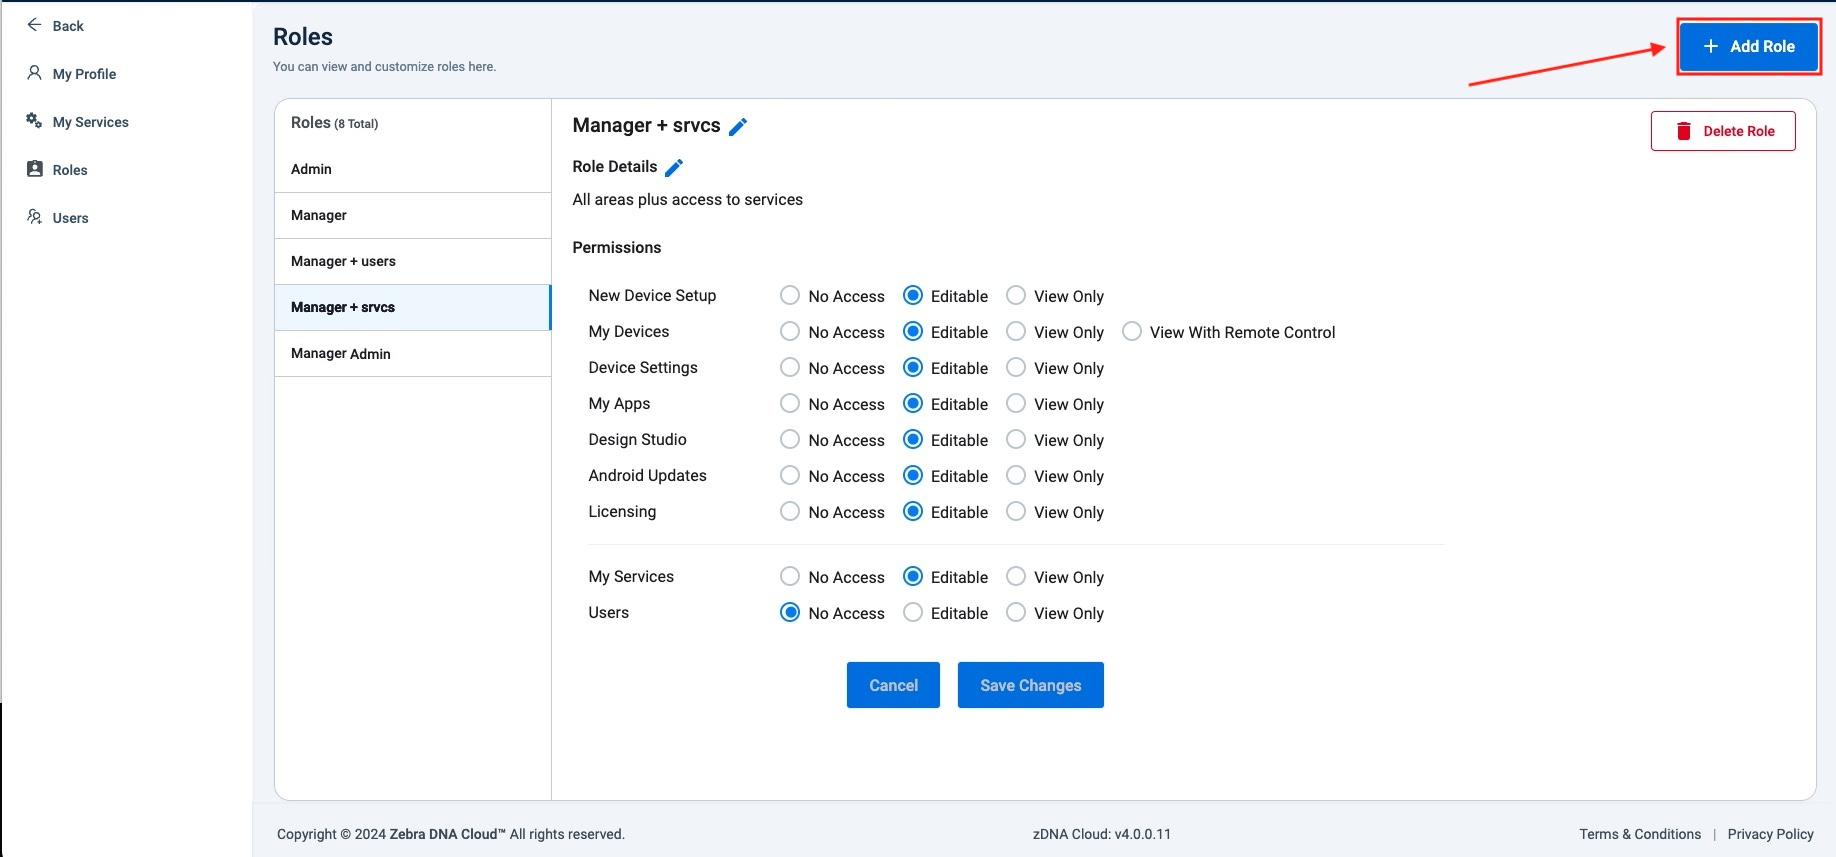
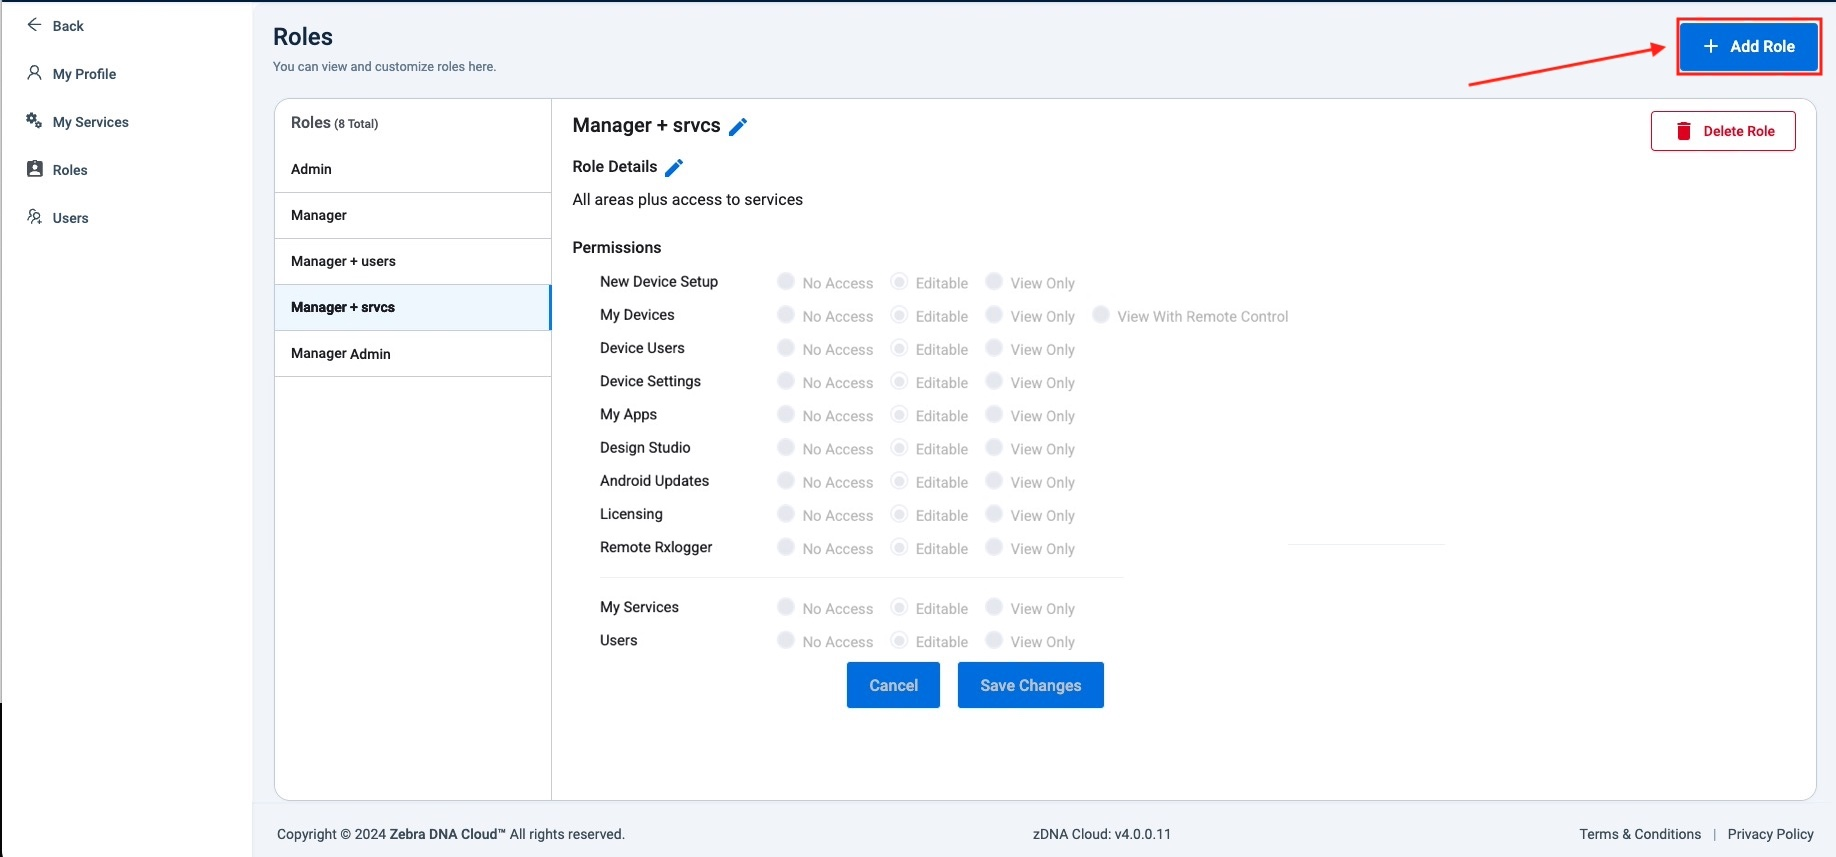
[TUT-108811] ZDNA 5.4 updates per eng; tweex galore

diff --git a/zebradna/5-4/usage/index.html b/zebradna/5-4/usage/index.html
@@ -505,14 +505,15 @@ PLAY STORE
 <h3 id="exportmydevicesdata" class="anchor"><a class="heading-anchor" href="#exportmydevicesdata"><span></span></a>Export My Devices Data</h3>
 
 <ol>
-<li><p><strong>On My Devices page, click the "Export" button</strong> to begin: 
+<li><p><strong>On My Devices page, click the "Export" button</strong> to begin.<br>
+Status changes from "In-Progress" to "Completed" once data collection is complete.<br>
+<strong>Click "Download"</strong> on the desired job to continue. 
 <img alt="image" style="height:350px" src="53_export_dialog.jpg">
 <em>The current export job status is displayed along with the two most recently completed export jobs (if applicable)</em>.<br> 
 <em>Click image to enlarge; ESC to exit.</em>
 <br></p></li>
 
-<li><p>Status changes from "In-Progress" to "Completed" once data collection is complete.<br> 
-<strong>Click "Download" to select a location for the completed data file</strong>: 
+<li><p>Navigate to the desired file location and <strong>click "Save" button</strong> (not shown).<br> 
 <img alt="image" style="height:150px" src="53_export_saveAs.jpg">
 <em>Click image to enlarge; ESC to exit.</em>
 <br></p></li>
@@ -1298,16 +1299,99 @@ Android Updates
 
 <h2 id="deviceusers" class="anchor"><a class="heading-anchor" href="#deviceusers"><span></span></a>Device Users</h2>
 
-<p><strong>The Device Users section allows admins to manage the identities, device-access method(s), usage activities and other information relevant to users of <a href="/identityguardian">Identity Guardian</a></strong>, Zebra's biometric device authentication solution.</p>
+<p><strong>The Device Users section allows admins to view the identities, device-access method(s), usage activities and other information relevant to users of <a href="/identityguardian">Identity Guardian</a></strong>, Zebra's biometric device authentication solution. Device users that enroll in Identity Guardian are automatically populated into the Device Users section, giving ZDNA administrators the ability to perform the actions listed below.</p>
 
-<p><img alt="image" style="height:150px" src="54_device_users.jpg">
+<p><img alt="image" style="height:350px" src="54_device_users.jpg">
 <em>Click image to enlarge; ESC to exit</em>.</p>
 
-<p><img alt="image" style="height:150px" src="54_deviceUser_columns.jpg">
+<ul>
+<li><strong>Delete -</strong> Removes user(s) from the system and blocks their access to device usage. </li>
+
+<li><strong>Expire -</strong> Blocks user access to devices; retains user information.   </li>
+
+<li><strong>Export -</strong> Gathers and writes all Identity Guardian user data to a <code>.csv</code> file on the host computer (see below).</li>
+</ul>
+
+<p><img alt="image" style="height:350px" src="54_deviceUser_columns.jpg">
 <em>Click image to enlarge; ESC to exit</em>.</p>
 
-<p><img alt="image" style="height:150px" src="54_export_device_users.jpg">
-<em>Click image to enlarge; ESC to exit</em>.</p>
+<p>User data available for display is listed below, with <strong>defaults shown in bold</strong>. Click the "Show Columns" button to select the desired data to display. </p>
+
+<ul>
+<li><strong>Employee ID</strong></li>
+
+<li><strong>Security Type(s)</strong></li>
+
+<li><strong>User Type</strong></li>
+
+<li>Valid Through</li>
+
+<li>Created On</li>
+
+<li>Created By Device</li>
+
+<li>Created By S/N1</li>
+
+<li><strong>Last Log-In</strong></li>
+
+<li>Last Log-In Device</li>
+
+<li><strong>Last Log-In S/N</strong></li>
+
+<li>Enrollment ID</li>
+
+<li><strong>Actions</strong></li>
+</ul>
+
+<h3 id="exportuserdata" class="anchor"><a class="heading-anchor" href="#exportuserdata"><span></span></a>Export User Data</h3>
+
+<ol>
+<li><p><strong>On Device Users page, click the "Export" button</strong> to begin.<br>
+Status changes from "In-Progress" to "Completed" once data collection for the current job is complete.<br>
+<strong>Click "Download"</strong> on the desired job to continue. 
+<img alt="image" style="height:350px" src="54_export_device_users.jpg">
+<em>The current export job status is displayed along with the two most recently completed export jobs (if applicable)</em>.<br> 
+<em>Click image to enlarge; ESC to exit.</em>
+<br></p></li>
+
+<li><p>Navigate to the desired file location and <strong>click "Save" button</strong> (not shown).<br> <br>
+<img alt="image" style="height:150px" src="54_export_saveAs.jpg">
+<em>Click image to enlarge; ESC to exit</em>.
+<br></p></li>
+</ol>
+
+<p><i class="fa fa-check-circle" style="color:#27AE60;"></i> Data for <strong>all device users</strong> is saved to a <code>.csv</code> file in the selected location for further processing and/or backup. Exports are subject to the behaviors listed below.</p>
+
+<h4 id="exportnotes-1" class="anchor"><a class="heading-anchor" href="#exportnotes-1"><span></span></a>Export Notes</h4>
+
+<ul>
+<li>Export function collects device information for all users on the Device Users page.</li>
+
+<li><strong>All user information is exported</strong> regardless of user selection(s), shown/hidden columns, filters, etc.</li>
+
+<li>The download button for each dataset is activated after all device user data is collected.  </li>
+
+<li><strong>The DNA Cloud system retains a maximum of three export-job files</strong>; older files are deleted automatically. </li>
+
+<li><strong>Data is saved as a</strong> <code>.csv</code> <strong>file</strong> to the selected location on the host computer.   </li>
+
+<li><strong>Export jobs are user-specific</strong>; each user sees only their own list of datasets.   </li>
+
+<li><strong>Export button is disabled</strong> if no device user data is present. </li>
+
+<li><strong>File generation status messages</strong>: 
+
+
+<ul>
+<li><strong>In-Progress</strong>: The export file is being generated.</li>
+
+<li><strong>Failed</strong>: An error occurred while generating the export file. Try again. </li>
+
+<li><strong>Completed</strong>: The export file was generated successfully and is available for download. </li></ul>
+</li>
+
+<li>Attempting to initiate an export while another is "In-Progress" results in an error.   </li>
+</ul>
 
 <hr>
 
@@ -1497,6 +1581,8 @@ When finished uploading files <strong>click Next</strong> to proceed: <br>
 <em>Click image to enlarge; ESC to exit.</em>
 <br></p>
 
+<hr>
+
 <h3 id="appnotes" class="anchor"><a class="heading-anchor" href="#appnotes"><span></span></a>App Notes</h3>
 
 <ul>
@@ -1522,6 +1608,16 @@ When finished uploading files <strong>click Next</strong> to proceed: <br>
 
 <li><strong>A changed Google Drive is indicated by a banner</strong> similar to the one shown below (DNA Cloud 2.4 and later). <img alt="image" style="height:50px" src="24_g_drive_banner.png"></li>
 </ul>
+
+<hr>
+
+<h3 id="upgradeanapp" class="anchor"><a class="heading-anchor" href="#upgradeanapp"><span></span></a>Upgrade an App</h3>
+
+<p>To upgrade an app that has already been added to a "My Collection" repository, refer to <a href="#addappstocollection">Add Apps to Collection</a> and click the "Add Version" button to create a Setup Profile. Then deploy as usual.  </p>
+
+<blockquote>
+  <p><i class="fa fa-exclamation-triangle" style="color:#FFA500;"></i> DNA Cloud cannot "downgrade" an app. To install an older version of a previously installed app, <a href="#createappsetupprofile">create an App Setup Profile</a> that includes the desired version and deploy it. </p>
+</blockquote>
 
 <hr>
 

diff --git a/zebradna/5-4/about/index.html b/zebradna/5-4/about/index.html
@@ -272,12 +272,23 @@
 <h2 id="newinzdna54" class="anchor"><a class="heading-anchor" href="#newinzdna54"><span></span></a>New in ZDNA 5.4</h2>
 
 <ul>
-<li><strong>Adds the ability to <a href="../usage/#devicesusers">export Identity Guardian User data</a></strong>: 
+<li>Adds support for the following devices <strong>running Android 14</strong><i>†</i>: 
+
+
+<ul>
+<li><strong>KC50</strong></li>
+
+<li><strong>TC58e</strong></li>
+
+<li><strong>WT6400</strong></li></ul>
+</li>
+
+<li><strong>Adds the ability to <a href="../usage/#deviceusers">export Identity Guardian user data</a></strong>: 
 <img alt="image" style="height:250px" src="54_export_device_users.jpg">
 <em>Click image to enlarge; ESC to exit</em>.</li>
 
 <li>Remote RxLogger now integrates with ZDNA User Roles 
-<img alt="image" style="height:250px" src="54_rxlogger_roles.jpg"><br>
+<img alt="image" style="height:250px" src="54_rxlogger_roles_new.jpg"><br>
 <em>Click image to enlarge; ESC to exit</em>.</li>
 
 <li>Numerous UI features and enhancements, including:
@@ -301,6 +312,8 @@
 <em>Click image to enlarge; ESC to exit</em>.</li></ul>
 </li>
 </ul>
+
+<p><i><font size="2" color="DimGrey"> † A system update might be required. See table below.</font></i> </p>
 
 <blockquote>
   <p><i class="fa fa-check-circle" style="color:#27AE60;"></i> Also see <strong><a href="/lifeguard/a14/">How to upgrade Zebra devices to Android 14</a></strong>.</p>
@@ -368,12 +381,12 @@
 </tr>
 
 <tr>
-<td><b>4490 (PS30, TC58e, WT6400) <code>NEW!</code></b></td>
+<td>4490 (PS30, TC58e, WT6400)</td>
 <td><code>13-26-13.00-TG-U00</code> (or later)</td>
 </tr>
 
 <tr>
-<td><b>5430 (EM45, KC50) <code>NEW!</code></b></td>
+<td>5430 (EM45, KC50)</td>
 <td><code>13-39-18.00-TG-U00</code> (or later)</td>
 </tr>
 
@@ -408,6 +421,16 @@
  <tbody><tr>
 <th>Device Platform (models)</th>
 <th>Required Update</th>
+</tr>
+
+<tr>
+<td><b>4490 (TC58e, WT6400) <code>NEW!</code></b></td>
+<td><code>14-15-22.00-UG-U05-STD-NEM-04</code> (or later)</td>
+</tr>
+
+<tr>
+<td><b>5430 (KC50) <code>NEW!</code></b></td>
+<td><code>14-28-03.00-UG-U00-STD-ATH-04</code> (or later)</td>
 </tr>
 
 <tr>
